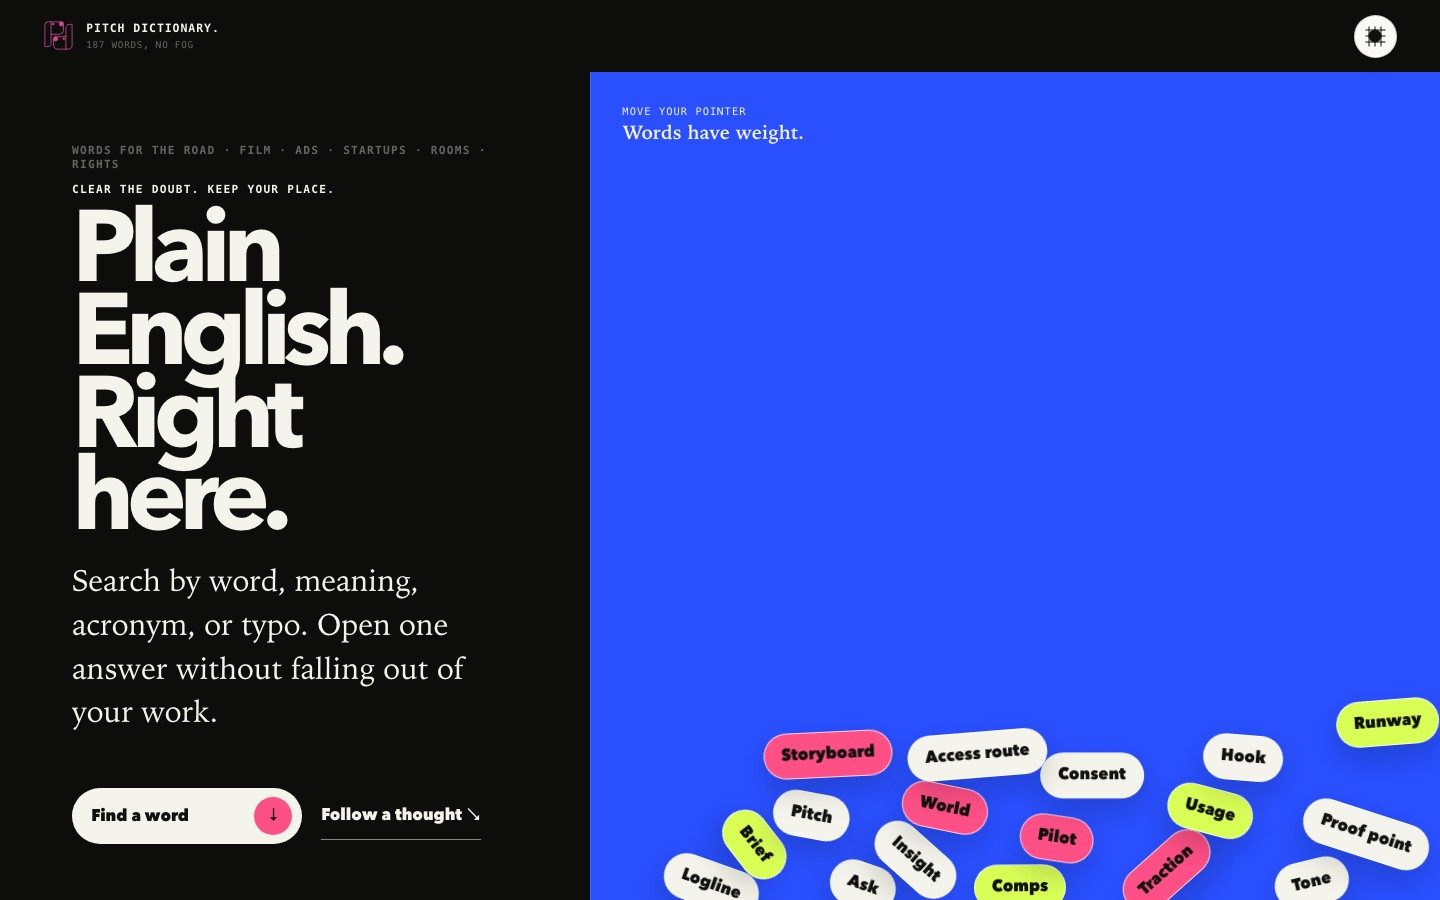
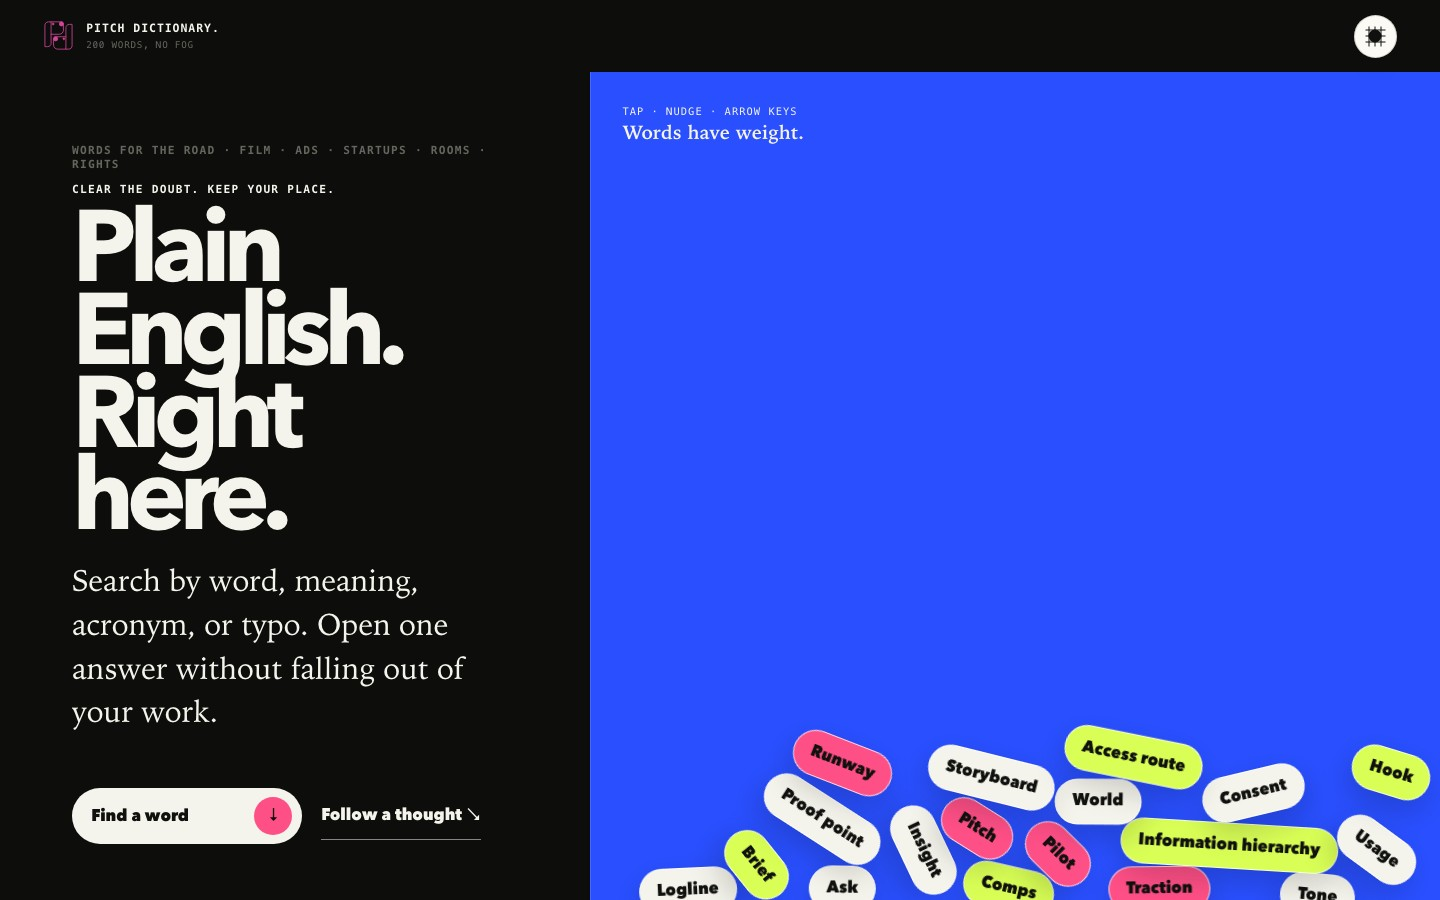
Expand and humanize the 1.1.0 dictionary

Changed region(s): [[0.4375, 0.7778, 1.0, 1.0], [0.5, 0.0933, 0.5312, 0.1244], [0.4375, 0.0933, 0.4688, 0.1244]]

diff --git a/tests/product.test.ts b/tests/product.test.ts
@@ -1,4 +1,39 @@
-import assert from "node:assert/strict"; import { readFileSync } from "node:fs"; import test from "node:test"; import { fuzzySearch } from "../src/search.ts"; import { CATEGORIES, TERMS } from "../src/terms.ts";
-test("dictionary is substantially expanded and deliberately divided",()=>{assert.ok(TERMS.length>=150,`Expected at least 150 terms, found ${TERMS.length}`);assert.equal(CATEGORIES.length,8);for(const category of CATEGORIES)assert.ok(TERMS.filter((term)=>term.category===category).length>=5,`${category} is too thin`)});
-test("fuzzy search survives misspellings, acronyms, aliases, and meaning queries",()=>{assert.equal(fuzzySearch(TERMS,"loglne")[0]?.label,"Logline");assert.equal(fuzzySearch(TERMS,"RTB")[0]?.label,"Reason to believe");assert.ok(fuzzySearch(TERMS,"unpaid pitch").slice(0,5).some((term)=>term.label==="Speculative work"));assert.ok(fuzzySearch(TERMS,"who can decide").slice(0,8).some((term)=>["Decision owner","Next decision"].includes(term.label)))});
-test("physics is interactive, reduced-motion safe, and grain free",()=>{const physics=readFileSync("src/physics.ts","utf8");assert.match(physics,/Matter/);assert.match(physics,/prefers-reduced-motion/);assert.match(physics,/pointermove/);const visible=["src/main.ts","src/styles.css","src/base.css","index.html"].map((path)=>readFileSync(path,"utf8")).join("\n");assert.doesNotMatch(visible,/grain-canvas|initialiseGrain|film-grain|scanline/i)});
+import assert from "node:assert/strict";
+import { readFileSync } from "node:fs";
+import test from "node:test";
+import { fuzzySearch } from "../src/search.ts";
+import { CATEGORIES, TERMS } from "../src/terms.ts";
+
+test("dictionary reaches 200 deliberately divided terms", () => {
+  assert.equal(TERMS.length, 200);
+  assert.equal(CATEGORIES.length, 8);
+  for (const category of CATEGORIES) assert.ok(TERMS.filter((term) => term.category === category).length >= 5, `${category} is too thin`);
+});
+
+test("fuzzy search survives misspellings, acronyms, aliases, and meaning queries", () => {
+  assert.equal(fuzzySearch(TERMS, "loglne")[0]?.label, "Logline");
+  assert.equal(fuzzySearch(TERMS, "RTB")[0]?.label, "Reason to believe");
+  assert.equal(fuzzySearch(TERMS, "ARR")[0]?.label, "Annual recurring revenue");
+  assert.ok(fuzzySearch(TERMS, "unpaid pitch").slice(0, 5).some((term) => term.label === "Speculative work"));
+  assert.ok(fuzzySearch(TERMS, "who can decide").slice(0, 8).some((term) => ["Decision owner", "Next decision"].includes(term.label)));
+});
+
+test("physics is interactive, roving-keyboard safe, reduced-motion safe, and grain free", () => {
+  const physics = readFileSync("src/physics.ts", "utf8");
+  assert.match(physics, /Matter/);
+  assert.match(physics, /prefers-reduced-motion/);
+  assert.match(physics, /pointermove/);
+  assert.match(physics, /tabIndex = index === 0 \? 0 : -1/);
+  assert.match(physics, /ArrowRight/);
+  assert.match(physics, /focus-within/);
+  const visible = ["src/main.ts", "src/styles.css", "src/base.css", "index.html"].map((item) => readFileSync(item, "utf8")).join("\n");
+  assert.doesNotMatch(visible, /grain-canvas|initialiseGrain|film-grain|scanline/i);
+});
+
+test("constellation motion cleans up after itself and term travel always restores focus", () => {
+  const constellation = readFileSync("src/constellation.ts", "utf8");
+  const main = readFileSync("src/main.ts", "utf8");
+  assert.doesNotMatch(constellation, /button\.innerHTML/);
+  assert.match(constellation, /removeEventListener\("pointermove", pointerMove\)/);
+  assert.match(main, /requestAnimationFrame\(\(\) => detail\.querySelector<HTMLElement>\("#term-dialog-title"\)\?\.focus/);
+});

diff --git a/src/main.ts b/src/main.ts
@@ -9,8 +9,11 @@ const META: ProductMeta = { name: "Pitch Dictionary.", eyebrow: `${TERMS.length}
 const app = document.querySelector<HTMLDivElement>("#app")!;
 if (!app) throw new Error("Pitch Dictionary could not find its stage.");
 document.body.dataset.product = "pitch-dictionary";
-const state: { query: string; category: Category | "All"; letter: string; visible: number; active?: string } = { query: "", category: "All", letter: "", visible: 24 };
+const state: { query: string; category: Category | "All"; letter: string; visible: number; surpriseIndex: number; active?: string } = { query: "", category: "All", letter: "", visible: 24, surpriseIndex: -1 };
 let detailConstellationCleanup: (() => void) | undefined;
+let dialogReturnFocus: HTMLElement | undefined;
+let searchAnnouncementTimer = 0;
+const SURPRISE_TERMS = ["pitch", "proof-point", "cold-open", "consent", "runway", "whitespace", "scope-creep", "series-engine", "decision-owner"] as const;
 
 function filtered(): PitchTerm[] {
   let terms = fuzzySearch(TERMS, state.query);
@@ -24,14 +27,14 @@ function render(): void {
   app.innerHTML = `${header(META)}<main id="main">
     <section class="dictionary-hero">
       <div class="dictionary-hero__copy"><p class="scope-tag">Words for the road · film · ads · startups · rooms · rights</p><p class="kicker">Clear the doubt. Keep your place.</p><h1 data-page-heading tabindex="-1">Plain English. Right here.</h1><p>Search by word, meaning, acronym, or typo. Open one answer without falling out of your work.</p><div class="hero-actions"><a class="primary-action" href="#dictionary-search">Find a word <span aria-hidden="true">↓</span></a><a class="sky-action" href="#constellations">Follow a thought ↘</a></div></div>
-      <div class="physics-stage" id="physics-stage" aria-label="Interactive pitch words. Move the pointer to nudge them; activate a word to open its definition."><div class="physics-caption"><span>Move your pointer</span><strong>Words have weight.</strong></div></div>
+      <div class="physics-stage" id="physics-stage" role="group" aria-label="Interactive pitch words. Tab once, then use arrow keys to move between words; activate one to open its definition."><div class="physics-caption"><span>Tap · nudge · arrow keys</span><strong>Words have weight.</strong></div></div>
     </section>
     <section class="constellation-intro" id="constellations">
       <div class="constellation-intro__copy"><p class="kicker">The constellations</p><h2>Words do not live alone.</h2><p>Search finds a definition. This shows the neighboring ideas—what a term touches, changes, or is too often mistaken for.</p><p class="sky-note">Start with <strong>Pitch</strong>. Choose any star to travel. No algorithmic rabbit hole; just useful editorial relationships.</p></div>
       <div class="constellation-preview"><div class="constellation-stage" id="constellation-preview" aria-live="polite"></div><p>One word in the middle. Eight useful ways out.</p></div>
     </section>
     <section class="dictionary-work" id="dictionary-search">
-      <div class="search-intro"><p class="kicker">The dictionary</p><h2>What is getting in the way?</h2><p>Try <button type="button" data-suggest="loglne">“loglne”</button>, <button type="button" data-suggest="RTB">“RTB”</button>, <button type="button" data-suggest="unpaid pitch">“unpaid pitch”</button>, or a plain question such as <button type="button" data-suggest="who can decide">“who can decide?”</button></p></div>
+      <div class="search-intro"><p class="kicker">The dictionary</p><h2>What is getting in the way?</h2><p>Try <button type="button" data-suggest="loglne">“loglne”</button>, <button type="button" data-suggest="RTB">“RTB”</button>, <button type="button" data-suggest="unpaid pitch">“unpaid pitch”</button>, or <button type="button" id="surprise-term">surprise me</button>.</p></div>
       <div class="search-box"><label for="term-search">Search ${TERMS.length} pitch terms</label><div><input id="term-search" type="search" autocomplete="off" spellcheck="false" placeholder="Type a word, meaning, acronym, or glorious misspelling…" value="${escapeHTML(state.query)}"><kbd>/</kbd></div><p>Fuzzy search checks names, aliases, meanings, categories, and near-matches. Your query stays here.</p></div>
       <div class="category-strip" aria-label="Browse by category"><button type="button" data-category="All" aria-pressed="${state.category === "All"}">All <span>${TERMS.length}</span></button>${CATEGORIES.map((category) => `<button type="button" data-category="${category}" aria-pressed="${state.category === category}">${usEnglish(category)} <span>${TERMS.filter((term) => term.category === category).length}</span></button>`).join("")}</div>
       <div class="alphabet-strip" aria-label="Browse alphabetically"><button type="button" data-letter="" aria-pressed="${!state.letter}">Any</button>${"ABCDEFGHIJKLMNOPQRSTUVWXYZ".split("").map((letter) => `<button type="button" data-letter="${letter}" aria-pressed="${state.letter === letter}" ${TERMS.some((term) => term.label.toUpperCase().startsWith(letter)) ? "" : "disabled"}>${letter}</button>`).join("")}</div>
@@ -54,21 +57,29 @@ function resultsMarkup(): string {
 }
 function termCard(term: PitchTerm): string { return `<button class="term-card" type="button" data-open-term="${term.id}"><span>${escapeHTML(usEnglish(term.category))}</span><strong>${escapeHTML(term.label)}</strong><p>${escapeHTML(term.plain)}</p><i aria-hidden="true">↗</i></button>`; }
 
-function updateResults(focus = false): void {
+function updateResults(focus = false, announceImmediately = true): void {
   const results = document.querySelector<HTMLElement>("#results"); if (!results) return; results.innerHTML = resultsMarkup(); bindResultEvents();
-  const count = filtered().length; announce(`${count} ${count === 1 ? "term" : "terms"} found.`); if (focus) results.querySelector<HTMLElement>("button")?.focus();
+  const count = filtered().length;
+  clearTimeout(searchAnnouncementTimer);
+  const report = () => announce(`${count} ${count === 1 ? "term" : "terms"} found.`);
+  if (announceImmediately) report(); else searchAnnouncementTimer = window.setTimeout(report, 180);
+  if (focus) results.querySelector<HTMLElement>("button")?.focus();
 }
 
 function openTerm(id: string): void {
   const term = TERMS.find((item) => item.id === id); const dialog = document.querySelector<HTMLDialogElement>("#term-dialog"); const detail = document.querySelector<HTMLElement>("#term-detail"); if (!term || !dialog || !detail) return;
-  const wasOpen = dialog.open;
   const confused = term.oftenConfusedWith.map((ref) => TERMS.find((item) => item.id === ref)).filter(Boolean) as PitchTerm[];
   const related = constellationFor(term, TERMS);
   detailConstellationCleanup?.();
   detail.innerHTML = `<div class="term-detail__top"><span>${escapeHTML(usEnglish(term.category))}</span><button type="button" id="close-term" aria-label="Close definition">×</button></div><h2 id="term-dialog-title" tabindex="-1">${escapeHTML(term.label)}</h2>${term.aliases.length ? `<p class="aliases">Also: ${term.aliases.map(escapeHTML).join(", ")}</p>` : ""}<p class="plain-definition">${escapeHTML(term.plain)}</p><div class="definition-pair"><section><p class="kicker">Why it matters</p><p>${escapeHTML(term.whyItMatters)}</p></section><section><p class="kicker">What it changes</p><p>${escapeHTML(term.changes)}</p></section></div>${confused.length ? `<section class="term-links"><p class="kicker">Often confused with</p>${confused.map((item) => `<button type="button" data-related="${item.id}">${escapeHTML(item.label)} ↗</button>`).join("")}</section>` : ""}<section class="term-constellation"><div><p class="kicker">The neighboring ideas</p><h3>Follow the thought.</h3><p>These are editorial relationships—not a universal taxonomy.</p></div><div class="constellation-stage constellation-stage--detail" id="detail-constellation"></div><div class="constellation-list" aria-label="Related terms">${related.map((item) => `<button type="button" data-related="${item.id}">${escapeHTML(item.label)} <span>↗</span></button>`).join("")}</div></section><p class="definition-boundary">A plain-language working definition—not legal, financial, medical, or universal industry advice.</p>`;
-  state.active = id; if (!dialog.open) dialog.showModal(); document.body.classList.add("dialog-open");
+  state.active = id;
+  if (!dialog.open) {
+    dialogReturnFocus = document.activeElement instanceof HTMLElement ? document.activeElement : undefined;
+    dialog.showModal();
+  }
+  document.body.classList.add("dialog-open");
   dialog.scrollTo({ top: 0, behavior: "auto" });
-  if (wasOpen) requestAnimationFrame(() => detail.querySelector<HTMLElement>("#term-dialog-title")?.focus({ preventScroll: true }));
+  requestAnimationFrame(() => detail.querySelector<HTMLElement>("#term-dialog-title")?.focus({ preventScroll: true }));
   const constellation = detail.querySelector<HTMLElement>("#detail-constellation");
   if (constellation) detailConstellationCleanup = mountConstellation(constellation, term, TERMS, openTerm);
   detail.querySelector("#close-term")?.addEventListener("click", () => dialog.close());
@@ -81,13 +92,22 @@ function bindResultEvents(): void {
   document.querySelector("#clear-filters")?.addEventListener("click", () => { state.query = ""; state.category = "All"; state.letter = ""; state.visible = 24; const input = document.querySelector<HTMLInputElement>("#term-search"); if (input) input.value = ""; document.querySelectorAll("[aria-pressed]").forEach((node) => node.setAttribute("aria-pressed", "false")); document.querySelector('[data-category="All"]')?.setAttribute("aria-pressed", "true"); document.querySelector('[data-letter=""]')?.setAttribute("aria-pressed", "true"); updateResults(); });
 }
 function bindStaticEvents(): void {
-  const input = document.querySelector<HTMLInputElement>("#term-search"); input?.addEventListener("input", () => { state.query = input.value; state.visible = 24; updateResults(); });
+  document.querySelector(".brand")?.addEventListener("click", (event) => { event.preventDefault(); landAtTop(); });
+  const input = document.querySelector<HTMLInputElement>("#term-search"); input?.addEventListener("input", () => { state.query = input.value; state.visible = 24; updateResults(false, false); });
   document.querySelectorAll<HTMLButtonElement>("[data-suggest]").forEach((button) => button.addEventListener("click", () => { if (!input) return; input.value = button.dataset.suggest ?? ""; state.query = input.value; state.visible = 24; updateResults(); input.focus(); document.querySelector("#dictionary-search")?.scrollIntoView({ block: "start", behavior: matchMedia("(prefers-reduced-motion: reduce)").matches ? "auto" : "smooth" }); }));
   document.querySelectorAll<HTMLButtonElement>("[data-category]").forEach((button) => button.addEventListener("click", () => { state.category = button.dataset.category as Category | "All"; state.visible = 24; document.querySelectorAll("[data-category]").forEach((node) => node.setAttribute("aria-pressed", String(node === button))); updateResults(); }));
   document.querySelectorAll<HTMLButtonElement>("[data-letter]").forEach((button) => button.addEventListener("click", () => { state.letter = button.dataset.letter ?? ""; state.visible = 24; document.querySelectorAll("[data-letter]").forEach((node) => node.setAttribute("aria-pressed", String(node === button))); updateResults(); }));
+  document.querySelector("#surprise-term")?.addEventListener("click", () => {
+    state.surpriseIndex = (state.surpriseIndex + 1) % SURPRISE_TERMS.length;
+    openTerm(SURPRISE_TERMS[state.surpriseIndex]!);
+  });
   bindResultEvents();
-  const dialog = document.querySelector<HTMLDialogElement>("#term-dialog"); dialog?.addEventListener("close", () => { detailConstellationCleanup?.(); detailConstellationCleanup = undefined; document.body.classList.remove("dialog-open"); state.active = undefined; }); dialog?.addEventListener("click", (event) => { if (event.target === dialog) dialog.close(); });
+  const dialog = document.querySelector<HTMLDialogElement>("#term-dialog"); dialog?.addEventListener("close", () => { detailConstellationCleanup?.(); detailConstellationCleanup = undefined; document.body.classList.remove("dialog-open"); state.active = undefined; dialogReturnFocus?.focus({ preventScroll: true }); dialogReturnFocus = undefined; }); dialog?.addEventListener("click", (event) => { if (event.target === dialog) dialog.close(); });
   document.querySelector("#physics-stage")?.addEventListener("dictionary:open", (event) => openTerm((event as CustomEvent<string>).detail));
-  document.addEventListener("keydown", (event) => { if (event.key === "/" && document.activeElement?.tagName !== "INPUT") { event.preventDefault(); input?.focus(); } });
+  document.addEventListener("keydown", (event) => {
+    const active = document.activeElement;
+    const editing = active instanceof HTMLElement && (active.matches("input, textarea, select") || active.isContentEditable);
+    if (event.key === "/" && !dialog?.open && !editing) { event.preventDefault(); input?.focus(); }
+  });
 }
 history.scrollRestoration = "manual"; initialiseThreadCursor(); render();

diff --git a/src/physics.ts b/src/physics.ts
@@ -5,13 +5,36 @@ const { Engine, Bodies, Body, Composite, Events, Runner } = Matter;
 
 export function initialiseWordDrop(stage: HTMLElement, terms: readonly PitchTerm[]): () => void {
   const reduced = matchMedia("(prefers-reduced-motion: reduce)").matches;
-  const chosen = ["Logline","Ask","Comps","Traction","Tone","Brief","Insight","Pilot","Hierarchy","Usage","Proof point","Pitch","World","Consent","Hook","Runway","Storyboard","Access route"]
+  const chosen = ["Logline","Ask","Comps","Traction","Tone","Brief","Insight","Pilot","Information hierarchy","Usage","Proof point","Pitch","World","Consent","Hook","Runway","Storyboard","Access route"]
     .map((label) => terms.find((term) => term.label === label)).filter(Boolean) as PitchTerm[];
   const elements = chosen.map((term) => {
     const button = document.createElement("button"); button.type = "button"; button.className = "falling-word"; button.textContent = term.label; button.dataset.term = term.id; button.setAttribute("aria-label", `Open ${term.label}`); stage.append(button); return { term, button };
   });
+  elements.forEach(({ button }, index) => { button.tabIndex = index === 0 ? 0 : -1; });
   elements.forEach(({ term, button }) => button.addEventListener("click", () => stage.dispatchEvent(new CustomEvent("dictionary:open", { bubbles: true, detail: term.id }))));
-  if (reduced) { stage.classList.add("physics-paused"); return () => { elements.forEach(({ button }) => button.remove()); }; }
+  const focusWord = (index: number) => {
+    const safe = (index + elements.length) % elements.length;
+    elements.forEach(({ button }, itemIndex) => { button.tabIndex = itemIndex === safe ? 0 : -1; });
+    elements[safe]?.button.focus();
+  };
+  const onKeydown = (event: KeyboardEvent) => {
+    const current = elements.findIndex(({ button }) => button === document.activeElement);
+    if (current < 0) return;
+    if (["ArrowRight", "ArrowDown"].includes(event.key)) { event.preventDefault(); focusWord(current + 1); }
+    if (["ArrowLeft", "ArrowUp"].includes(event.key)) { event.preventDefault(); focusWord(current - 1); }
+    if (event.key === "Home") { event.preventDefault(); focusWord(0); }
+    if (event.key === "End") { event.preventDefault(); focusWord(elements.length - 1); }
+  };
+  const onFocusIn = (event: FocusEvent) => {
+    const index = elements.findIndex(({ button }) => button === event.target);
+    if (index >= 0) elements.forEach(({ button }, itemIndex) => { button.tabIndex = itemIndex === index ? 0 : -1; });
+  };
+  stage.addEventListener("keydown", onKeydown);
+  stage.addEventListener("focusin", onFocusIn);
+  if (reduced) {
+    stage.classList.add("physics-paused");
+    return () => { stage.removeEventListener("keydown", onKeydown); stage.removeEventListener("focusin", onFocusIn); elements.forEach(({ button }) => button.remove()); };
+  }
 
   const engine = Engine.create({ gravity: { x: 0.05, y: 0.72, scale: 0.001 } });
   const runner = Runner.create();
@@ -41,6 +64,10 @@ export function initialiseWordDrop(stage: HTMLElement, terms: readonly PitchTerm
   };
   let resizeFrame = 0;
   const resize = () => { cancelAnimationFrame(resizeFrame); resizeFrame = requestAnimationFrame(rebuild); };
-  rebuild(); Events.on(engine, "afterUpdate", sync); Runner.run(runner, engine); stage.addEventListener("pointermove", pointer, { passive: true }); addEventListener("resize", resize, { passive: true });
-  return () => { Runner.stop(runner); Events.off(engine, "afterUpdate", sync); Composite.clear(engine.world, false); Engine.clear(engine); stage.removeEventListener("pointermove", pointer); removeEventListener("resize", resize); elements.forEach(({ button }) => button.remove()); };
+  let running = false;
+  const start = () => { if (!running) { Runner.run(runner, engine); running = true; } };
+  const pause = () => { if (running) { Runner.stop(runner); running = false; } };
+  const onFocusOut = () => queueMicrotask(() => { if (!stage.matches(":focus-within")) start(); });
+  rebuild(); Events.on(engine, "afterUpdate", sync); start(); stage.addEventListener("pointermove", pointer, { passive: true }); stage.addEventListener("focusin", pause); stage.addEventListener("focusout", onFocusOut); addEventListener("resize", resize, { passive: true });
+  return () => { pause(); Events.off(engine, "afterUpdate", sync); Composite.clear(engine.world, false); Engine.clear(engine); stage.removeEventListener("pointermove", pointer); stage.removeEventListener("keydown", onKeydown); stage.removeEventListener("focusin", onFocusIn); stage.removeEventListener("focusin", pause); stage.removeEventListener("focusout", onFocusOut); removeEventListener("resize", resize); elements.forEach(({ button }) => button.remove()); };
 }

diff --git a/src/constellation.ts b/src/constellation.ts
@@ -27,6 +27,12 @@ const ORBITS: readonly (readonly string[])[] = [
   ["sequence", "transition", "pitch-narrative", "page-job", "section-job", "progressive-disclosure", "reading-order"],
   ["comps", "positioning", "differentiator", "visual-reference", "market-proof", "genre", "tone"],
   ["unpaid-pitch", "speculative-work", "pitch-fee", "portfolio-work", "usage", "licence", "consent"],
+  ["proof-of-concept", "sizzle-reel", "key-art", "treatment", "lookbook", "visual-reference", "pilot"],
+  ["cold-open", "hook", "pilot", "inciting-incident", "beat"],
+  ["arr", "mrr", "gross-margin", "burn-rate", "runway", "unit-economics", "projection"],
+  ["customer-acquisition-cost", "customer-lifetime-value", "conversion-rate", "retention", "churn", "cohort"],
+  ["safe", "term-sheet", "valuation", "cap-table", "due-diligence"],
+  ["residuals", "usage", "licence", "buyout", "credit"],
 ] as const;
 
 const STOP = new Set(["a", "an", "and", "are", "as", "at", "be", "by", "for", "from", "how", "in", "is", "it", "of", "on", "or", "that", "the", "this", "to", "what", "when", "which", "who", "with"]);
@@ -107,7 +113,11 @@ export function mountConstellation(
     button.style.setProperty("--node-x", `${POSITIONS[index]?.[0] ?? 50}%`);
     button.style.setProperty("--node-y", `${POSITIONS[index]?.[1] ?? 50}%`);
     button.style.setProperty("--node-delay", `${index * -0.37}s`);
-    button.innerHTML = `<i aria-hidden="true"></i><span>${neighbour.label}</span>`;
+    const star = document.createElement("i");
+    star.setAttribute("aria-hidden", "true");
+    const label = document.createElement("span");
+    label.textContent = neighbour.label;
+    button.append(star, label);
     button.addEventListener("click", () => onSelect(neighbour.id));
     stage.append(button);
     return button;
@@ -157,16 +167,27 @@ export function mountConstellation(
   const resize = new ResizeObserver(queueDraw);
   resize.observe(stage);
   window.addEventListener("resize", queueDraw, { passive: true });
-  stage.addEventListener("pointermove", (event) => {
+  const pointerMove = (event: PointerEvent) => {
     const bounds = stage.getBoundingClientRect();
     stage.style.setProperty("--sky-x", `${((event.clientX - bounds.left) / bounds.width - 0.5) * 10}px`);
     stage.style.setProperty("--sky-y", `${((event.clientY - bounds.top) / bounds.height - 0.5) * 10}px`);
-  }, { passive: true });
+  };
+  const pointerLeave = () => {
+    stage.style.setProperty("--sky-x", "0px");
+    stage.style.setProperty("--sky-y", "0px");
+  };
+  const parallax = matchMedia("(hover: hover) and (pointer: fine)").matches && !matchMedia("(prefers-reduced-motion: reduce)").matches;
+  if (parallax) {
+    stage.addEventListener("pointermove", pointerMove, { passive: true });
+    stage.addEventListener("pointerleave", pointerLeave);
+  }
   queueDraw();
 
   return () => {
     if (frame) cancelAnimationFrame(frame);
     resize.disconnect();
     window.removeEventListener("resize", queueDraw);
+    stage.removeEventListener("pointermove", pointerMove);
+    stage.removeEventListener("pointerleave", pointerLeave);
   };
 }

diff --git a/src/terms.ts b/src/terms.ts
@@ -162,6 +162,19 @@ const EXTRA: readonly PitchTerm[] = [
   s({ id:"conflict-of-interest", label:"Conflict of interest", aliases:["conflict"], plain:"A situation in which a person’s competing duties, relationships, or interests may impair—or appear to impair—independent judgement.", why:"Disclosure and process can matter even when nobody intended harm.", changes:"Participation, disclosure, recusal, and specialist guidance.", category:"Rights, labour & process" }),
   s({ id:"procurement", label:"Procurement", aliases:["vendor procurement","sourcing process"], plain:"The organisational process for selecting, approving, contracting, and paying suppliers or services.", why:"Creative enthusiasm does not bypass vendor, legal, risk, or purchasing gates.", changes:"Route, timeline, documentation, and decision owners.", category:"Rights, labour & process" }),
   s({ id:"consent", label:"Consent", aliases:["informed consent","permission"], plain:"A specific, informed, freely given, and revocable agreement to a defined participation or use where revocation is possible.", why:"Silence, pressure, dependence, or a vague blanket checkbox may not create meaningful consent.", changes:"Participation, recording, disclosure, use, and privacy.", category:"Rights, labour & process" }),
+  s({ id:"proof-of-concept", label:"Proof of concept", aliases:["POC","creative proof of concept"], plain:"A bounded artifact or test made to show that one central creative, technical, or audience proposition can work before the full thing is built.", why:"It should test the riskiest useful question—not impersonate a finished production on a fraction of the resources.", changes:"Scope, prototype, evidence, budget, and the next decision.", category:"Story & screen" }),
+  s({ id:"sizzle-reel", label:"Sizzle reel", aliases:["sizzle","pitch reel"], plain:"A short edited piece designed to make a project’s energy, world, characters, access, or screen promise quickly legible.", why:"Reference footage, original footage, and cleared footage are different rights states; excitement does not erase provenance.", changes:"Pitch route, edit, footage labels, music, rights review, and delivery.", category:"Story & screen" }),
+  s({ id:"cold-open", label:"Cold open", aliases:["teaser opening","pre-title sequence"], plain:"An opening sequence that begins the experience before the main titles or opening credits, where the format uses one.", why:"It can create immediate story pressure or tone; it is not simply any scene placed first.", changes:"Pilot structure, hook, pacing, and audience promise.", category:"Story & screen" }),
+  s({ id:"key-art", label:"Key art", aliases:["hero artwork","primary campaign image"], plain:"The primary visual idea used to identify and market a project across major campaign placements.", why:"Useful key art carries a clear promise at several sizes; it is not merely a beautiful still with billing added.", changes:"Campaign concept, hierarchy, formats, rights, and production.", category:"Story & screen" }),
+  s({ id:"arr", label:"Annual recurring revenue", aliases:["ARR","annualized recurring revenue"], plain:"The annualized value of recurring revenue under a declared calculation method at a particular point in time.", why:"ARR is not automatically total revenue, cash collected, bookings, or a universally standardized metric.", changes:"Traction claim, period, exclusions, source, and diligence.", category:"Business & startups" }),
+  s({ id:"mrr", label:"Monthly recurring revenue", aliases:["MRR","monthly run rate"], plain:"Recurring revenue normalized to one month under a declared calculation method.", why:"MRR can hide churn, discounts, annual prepayments, services, and inconsistent inclusions if the method stays invisible.", changes:"Traction claim, cohort view, growth rate, source, and diligence.", category:"Business & startups" }),
+  s({ id:"burn-rate", label:"Burn rate", aliases:["cash burn","monthly burn"], plain:"The rate at which a company uses cash over a stated period, using a stated gross or net definition.", why:"Burn without cash balance, timing, and definition cannot honestly explain runway.", changes:"Runway, financing timing, scenarios, and cost decisions.", category:"Business & startups" }),
+  s({ id:"gross-margin", label:"Gross margin", aliases:["gross profit margin"], plain:"Revenue minus the costs classified as directly required to deliver that revenue, usually shown as a percentage of revenue.", why:"What counts as a direct cost materially changes the number, especially across software, services, and physical products.", changes:"Unit economics, pricing, business model, comparison, and diligence.", category:"Business & startups" }),
+  s({ id:"customer-acquisition-cost", label:"Customer acquisition cost", aliases:["CAC","cost to acquire a customer"], plain:"Sales and marketing cost allocated to customers acquired over an aligned period under a declared method.", why:"A blended headline can hide channel, cohort, payback, sales-cycle, and attribution differences.", changes:"Go-to-market, unit economics, channel evidence, and fundraising claims.", category:"Business & startups" }),
+  s({ id:"customer-lifetime-value", label:"Customer lifetime value", aliases:["LTV","CLV","lifetime value"], plain:"A modeled estimate of the economic value a customer contributes across the relationship under explicit margin, retention, and time assumptions.", why:"LTV is an assumption-heavy model, not money already earned.", changes:"Unit economics, acquisition spend, cohort analysis, and sensitivity checks.", category:"Business & startups" }),
+  s({ id:"conversion-rate", label:"Conversion rate", aliases:["CVR","funnel conversion"], plain:"The percentage of a defined group that moves from one declared step to another within a stated window.", why:"The numerator, denominator, window, source, and selection conditions decide what the percentage actually means.", changes:"Funnel, experiment, claim wording, comparison, and next test.", category:"Business & startups" }),
+  s({ id:"safe", label:"SAFE", aliases:["simple agreement for future equity","SAFE note"], plain:"A financing contract that may convert into equity under defined future conditions without being ordinary current equity or a standard loan.", why:"Valuation caps, discounts, triggers, rights, dilution, jurisdiction, and document versions matter; specialist review belongs here.", changes:"Capitalization table, financing terms, dilution, disclosure, and legal review.", category:"Rights, labour & process" }),
+  s({ id:"residuals", label:"Residuals", aliases:["reuse payments","secondary-use payments"], plain:"Payments that may become due for later exhibition, reuse, distribution, or exploitation under applicable contracts, collective agreements, or rules.", why:"Eligibility, formulas, media, territory, timing, and enforcement vary; ‘paid once’ does not settle every reuse question.", changes:"Budget, contract, usage, reporting, credit, and specialist review.", category:"Rights, labour & process" }),
 ] as const;
 
 const storyIds = new Set(["logline","tagline","synopsis","series-engine","limited-series","season-arc","episode-examples","episode-list","pilot","pitch-bible","production-bible","lookbook","treatment","directors-treatment","theme","visual-reference"]);

diff --git a/src/styles.css b/src/styles.css
@@ -18,6 +18,8 @@ body[data-product="pitch-dictionary"] .site-header { background: #0d0e0c; color:
 .falling-word:nth-of-type(3n) { background: var(--acid); }
 .falling-word:nth-of-type(4n) { background: var(--pink); }
 .falling-word:active { filter: brightness(.9); }
+.falling-word:focus-visible { outline-color: var(--acid); outline-offset: 5px; }
+.physics-stage:focus-within .physics-caption span { color: var(--acid); }
 .physics-paused { display: flex; flex-wrap: wrap; align-content: center; justify-content: center; gap: .7rem; padding: 5rem 2rem; }
 .physics-paused .falling-word { position: static; transform: none !important; }
 .constellation-intro { display: grid; grid-template-columns: .72fr 1.28fr; min-height: 92dvh; padding: clamp(4rem, 8vw, 8rem) clamp(1.25rem, 6vw, 7rem); background: #11122b; color: #f5f4ec; }
@@ -40,6 +42,7 @@ body[data-product="pitch-dictionary"] .site-header { background: #0d0e0c; color:
 .search-intro h2 { margin-bottom: 1rem; font-size: clamp(3.5rem, 8vw, 9rem); line-height: .84; letter-spacing: -.07em; }
 .search-intro > p:last-child { max-width: 58rem; font-family: var(--serif); font-size: 1.22rem; }
 .search-intro button { padding: 0; border: 0; border-bottom: 1px solid currentColor; background: transparent; font: inherit; }
+#surprise-term { margin-left: .15rem; padding: .08rem .5rem; border: 1px solid currentColor; border-radius: 999px; transform: rotate(-1deg); }
 .search-box { position: sticky; z-index: 10; top: 1rem; margin: 3rem 0; padding: 1.2rem; background: color-mix(in srgb, var(--paper) 94%, transparent); box-shadow: 0 22px 65px rgb(16 17 14 / .12), inset 0 0 0 1px var(--line); backdrop-filter: blur(14px); }
 .search-box label { display: block; margin-bottom: .7rem; font-weight: 760; }
 .search-box > div { display: flex; align-items: center; border-bottom: 3px solid var(--ink); }
@@ -91,6 +94,6 @@ body[data-product="pitch-dictionary"] .site-header { background: #0d0e0c; color:
 .definition-boundary { margin: 2rem 0 0; color: var(--muted); font-size: .72rem; }
 .dialog-open { overflow: hidden; }
 @media (hover:hover) and (pointer:fine) { .term-card:hover { z-index: 1; transform: translateY(-4px); background: var(--cobalt); color: #fff; } .term-card:hover > span { color: rgb(255 255 255 / .7); } .falling-word:hover { box-shadow: 0 16px 40px rgb(0 0 0 / .28); } .constellation-node:hover i { transform: scale(1.65); background: #fff; } .constellation-list button:hover { color: var(--acid); } }
-@media (max-width: 980px) { .dictionary-hero { grid-template-columns: 1fr; } .physics-stage { order: -1; min-height: 52dvh; } .constellation-intro { grid-template-columns: 1fr; gap: 3rem; } .constellation-intro__copy { padding-right: 0; } .constellation-stage { min-height: min(76vw, 680px); } .term-grid { grid-template-columns: repeat(2, minmax(0, 1fr)); } }
+@media (max-width: 980px) { .dictionary-hero { grid-template-columns: 1fr; } .physics-stage { min-height: 52dvh; } .constellation-intro { grid-template-columns: 1fr; gap: 3rem; } .constellation-intro__copy { padding-right: 0; } .constellation-stage { min-height: min(76vw, 680px); } .term-grid { grid-template-columns: repeat(2, minmax(0, 1fr)); } }
 @media (max-width: 620px) { .physics-stage { min-height: 48dvh; } .constellation-stage { min-height: 460px; border-radius: 44%; } .constellation-centre { width: 92px; font-size: .78rem; } .constellation-node { width: 28%; } .constellation-node span { font-size: .53rem; } .constellation-stage--detail { min-height: 440px; } .constellation-list { grid-template-columns: 1fr; } .constellation-list button:nth-child(odd), .constellation-list button:nth-child(even) { padding: .75rem 0; border-left: 0; } .term-grid { grid-template-columns: 1fr; } .term-card { min-height: 235px; } .definition-pair { grid-template-columns: 1fr; } .search-box { top: .5rem; } .alphabet-strip { flex-wrap: nowrap; overflow-x: auto; } }
 @media (prefers-reduced-motion: reduce) { .physics-stage { touch-action: auto; } .constellation-stage { transition: none; } }

diff --git a/src/base.css b/src/base.css
@@ -49,7 +49,8 @@ body {
 ::selection { background: var(--pink); color: #10110e; }
 button, input, textarea, select { font: inherit; color: inherit; }
 button { cursor: pointer; }
-button:disabled { cursor: wait; opacity: 0.58; }
+button:disabled { cursor: not-allowed; opacity: 0.58; }
+button[aria-busy="true"] { cursor: progress; }
 a { color: inherit; }
 img { display: block; max-width: 100%; }
 h1, h2, h3, p { margin-top: 0; }
@@ -286,6 +287,7 @@ h1[tabindex="-1"]:focus { outline: none; }
 }
 .question-art img { aspect-ratio: 3 / 2; object-fit: cover; }
 .answers-panel { display: flex; align-items: center; padding: clamp(1.25rem, 4vw, 4rem); background: color-mix(in srgb, var(--paper) 72%, var(--bg)); box-shadow: inset 1px 0 var(--line); }
+.answers-instruction { margin: 0 0 1rem; color: var(--muted); font-family: var(--serif); font-size: 0.98rem; }
 .answer-grid { display: grid; grid-template-columns: repeat(2, minmax(0, 1fr)); gap: 0.8rem; width: 100%; }
 .answer-card {
   position: relative;

diff --git a/src/ui.ts b/src/ui.ts
@@ -76,6 +76,10 @@ export function bindTheme(storageKey: string): void {
     document.documentElement.dataset.theme = theme;
     document.documentElement.dataset.themeSource = source;
     document.querySelector<HTMLMetaElement>('meta[name="theme-color"]')?.setAttribute("content", theme === "dark" ? "#0d0e0c" : "#f3f2ed");
+    const toggle = document.querySelector<HTMLButtonElement>("#theme-toggle");
+    const next = theme === "dark" ? "light" : "dark";
+    toggle?.setAttribute("aria-label", `Switch to ${next} theme`);
+    toggle?.setAttribute("title", `Switch to ${next} theme`);
   };
   if (!themeSystemBound) {
     system.addEventListener("change", (event) => {

diff --git a/CHANGELOG.md b/CHANGELOG.md
@@ -1,5 +1,14 @@
 # Changelog
 
+## 1.1.0 — 2026-07-20
+
+- Expanded the registry from 187 to 200 terms with screen, rights, and startup language.
+- Added a deterministic “surprise me” route into the dictionary.
+- Made the physics opener one keyboard stop with arrow-key travel and paused motion while a word has focus.
+- Put the explanation before the moving words on small screens and made opener instructions work for touch, pointer, and keyboard users.
+- Debounced search announcements, restored focus on every definition journey, removed a constellation listener leak, and made parallax fine-pointer only.
+- Refreshed the public hero and strengthened search, physics, and constellation regression tests.
+
 ## 1.0.0 — 2026-07-20
 
 - Released Pitch Dictionary as an independent local-first reference.

diff --git a/README.md b/README.md
@@ -8,7 +8,7 @@
 
 **Clear the doubt. Keep your place.**
 
-A local-first dictionary for pitch work: 187 plain-English terms, forgiving fuzzy search, useful context, and a celestial map of related ideas.
+A local-first dictionary for pitch work: 200 plain-English terms, forgiving fuzzy search, useful context, and a celestial map of related ideas.
 
 [![Verify](https://github.com/bomkino/pitchdog-pitch-dictionary/actions/workflows/ci.yml/badge.svg)](https://github.com/bomkino/pitchdog-pitch-dictionary/actions/workflows/ci.yml)
 
@@ -18,7 +18,7 @@ A local-first dictionary for pitch work: 187 plain-English terms, forgiving fuzz
 
 ## Search like a person
 
-Search by term, acronym, meaning, alias, or a reasonable misspelling. Filters cover eight practical families: foundations, story and form, people and route, deck craft, delivery and access, evidence and money, production and rights, and process.
+Search by term, acronym, meaning, alias, or a reasonable misspelling. Filters cover eight practical families: foundations, story and screen, advertising, business and startups, rooms and slides, evidence and claims, rights and labor, and access and inclusion.
 
 Results explain:
 
@@ -31,7 +31,7 @@ Results explain:
 
 Open any term to see a deterministic map of related concepts. Nodes are real buttons, relationships are also listed in text, the dialog resets cleanly when you travel, and reduced-motion users get the same information without parallax.
 
-The opening word field uses Matter.js physics. The constellation uses a light canvas layer plus semantic HTML. Neither is a decorative loading screen; both lead into the dictionary.
+The opening word field uses Matter.js physics. It is one keyboard stop: arrow keys move between words, focus pauses the motion, and reduced-motion users receive the same routes in a stable layout. The constellation uses a light canvas layer plus semantic HTML. Neither is a decorative loading screen; both lead into the dictionary.
 
 ## Local by design
 
@@ -51,7 +51,7 @@ npm run verify
 
 ## How it is built
 
-- `src/terms.ts` — the public 187-term editorial registry
+- `src/terms.ts` — the public 200-term editorial registry
 - `src/search.ts` — deterministic fuzzy ranking
 - `src/constellation.ts` — related-term scoring and node layout
 - `src/physics.ts` — reduced-motion-aware opening field

diff --git a/docs/PRODUCT-CONTRACT.md b/docs/PRODUCT-CONTRACT.md
@@ -14,7 +14,8 @@ A query, category filter, selected term, or related-term navigation choice.
 - a plain definition;
 - why the term matters and what it changes;
 - common confusions and related concepts;
-- a visual and textual constellation of nearby terms.
+- a visual and textual constellation of nearby terms;
+- an optional deterministic surprise route into a valid definition.
 
 ## Editorial status
 
@@ -23,6 +24,8 @@ Definitions are practical editorial guidance, not universal laws. Meanings can v
 ## Constellation status
 
 The constellation is a deterministic navigation aid. Curated relationships and transparent similarity rules place terms near one another; it does not claim an objective ontology or use hidden inference.
+
+The physics opener is optional navigation, not a gate. Touch, pointer, keyboard, and reduced-motion routes expose the same definitions.
 
 ## Privacy
 

diff --git a/LEARNINGS.md b/LEARNINGS.md
@@ -5,3 +5,7 @@
 - Related-word navigation works best when visual proximity and a readable text list agree.
 - A constellation can carry delight without becoming a navigation tax.
 - Stable term IDs let public language improve without breaking relationships.
+- Physics is only welcoming when keyboard users can enter once, travel deliberately, and stop the movement.
+- Search announcements should follow the typist, not interrupt every keystroke.
+- Mobile narrative order should explain the interaction before presenting it.
+- Delight benefits from a tiny invitation: “surprise me” can open a route without turning discovery into roulette.